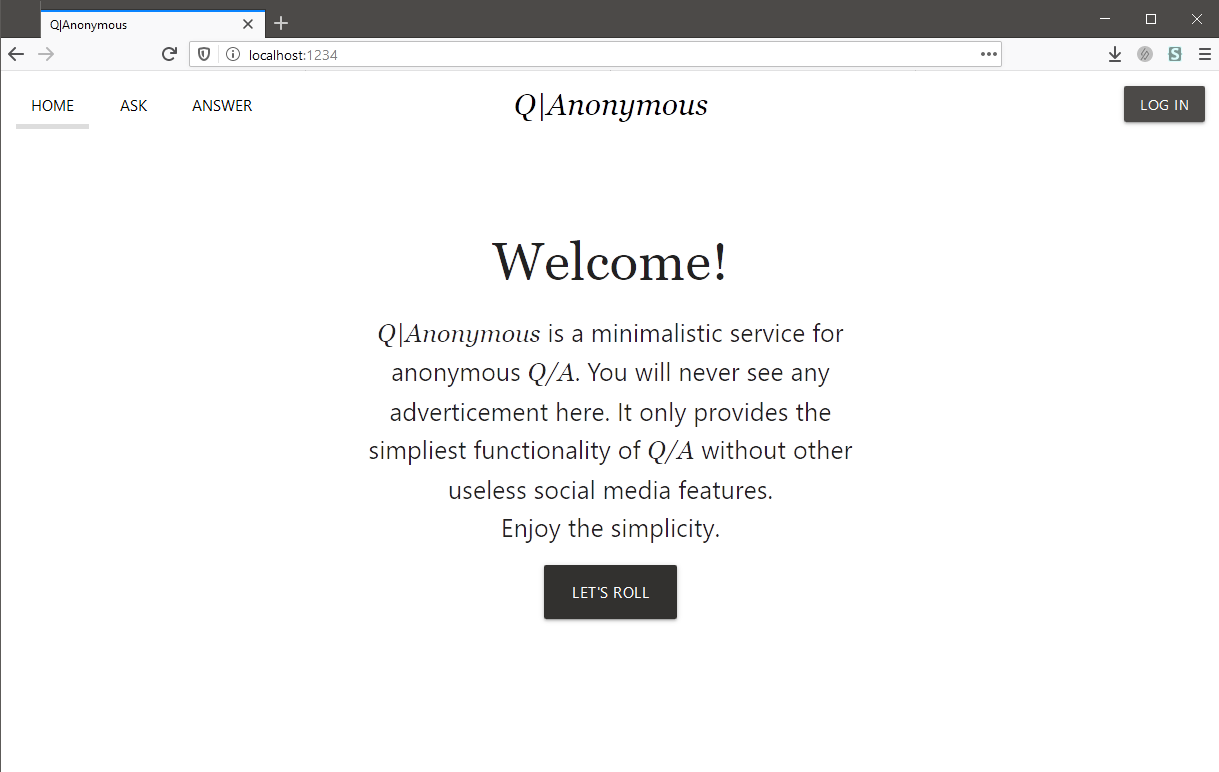
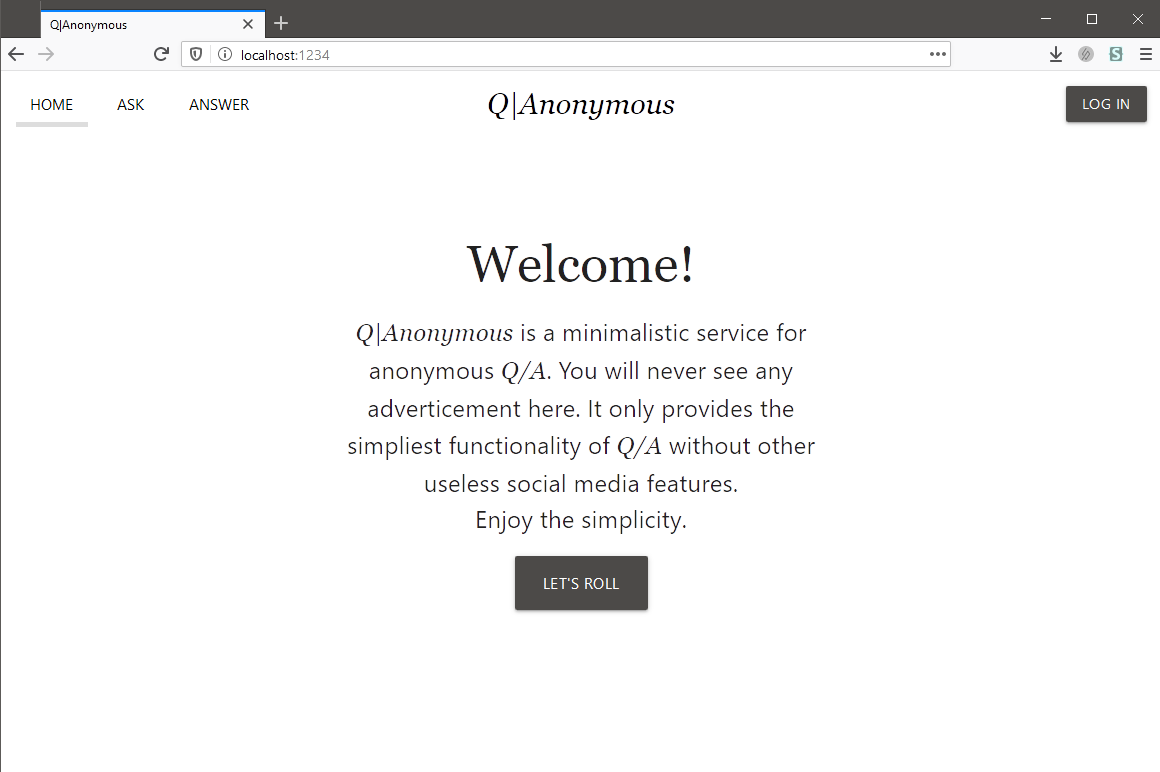
fixing small screens

diff --git a/public/html/home.html b/public/html/home.html
@@ -38,12 +38,12 @@
                     <h2>Welcome!</h2>
 
                     <div class="row">
-                        <p class="col m10 offset-m1 l8 offset-l2 flow-text">
+                        <p class="col s12 m10 offset-m1 l8 offset-l2 flow-text">
                             <span class="emph">Q|Anonymous</span> is a minimalistic service for anonymous <span class="emph">Q/A</span>.
                             You will never see any adverticement here. It only provides the simpliest functionality of <span class="emph">Q/A</span>
                             without other useless social media features.
                         </p>
-                        <p class="col m10 offset-m1 l8 offset-l2 flow-text">
+                        <p class="col s12 m10 offset-m1 l8 offset-l2 flow-text">
                             Enjoy the simplicity.
                         </p>
                     </div>

diff --git a/public/html/ask.html b/public/html/ask.html
@@ -35,9 +35,10 @@
         <div class="hat valign-wrapper">
             <div class="container">
                 <div class="row center">
-                    <h2>Looking for someone particular?</h2>
+                    <h2 class="hide-on-small-only">Looking for someone particular?</h2>
+                    <h2 class="hide-on-med-and-up">Looking for</h2>
 
-                    <div class="col m6 offset-m3">
+                    <div class="col s12 m6 offset-m3">
                         <nav>
                             <div class="nav-wrapper">
                                 <form>
